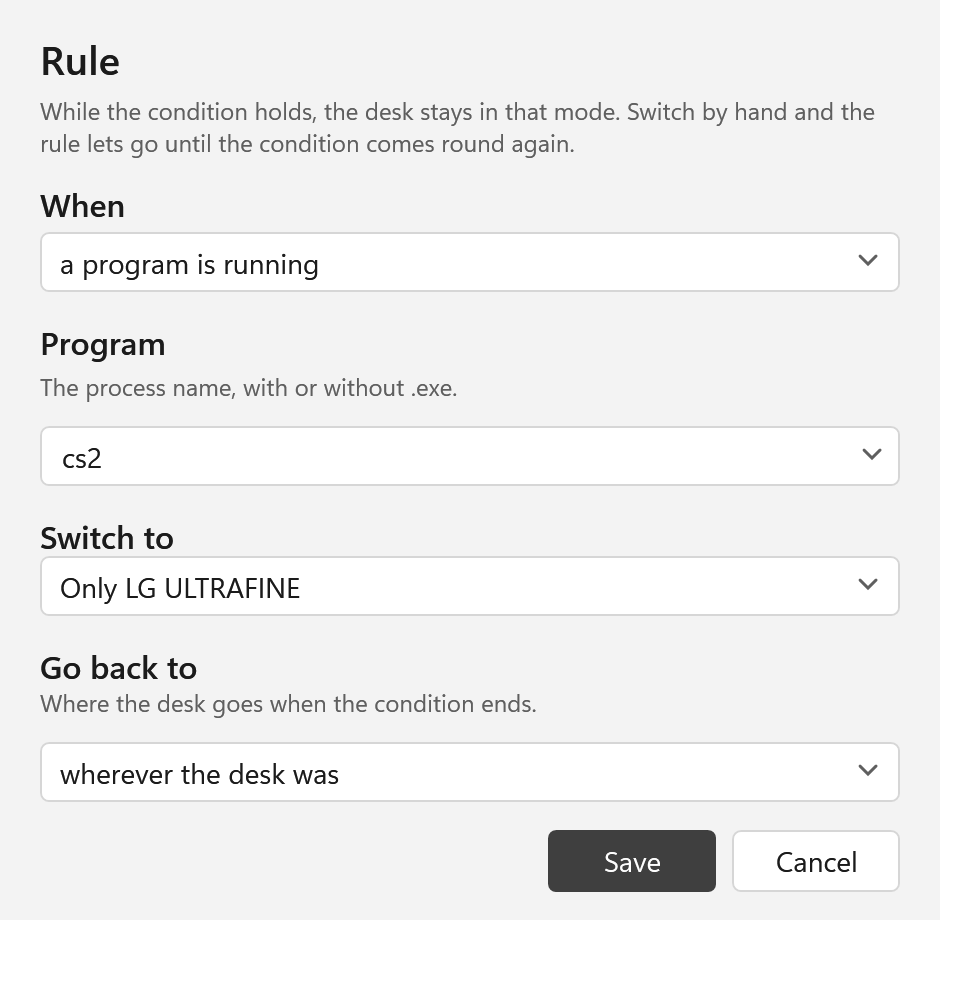
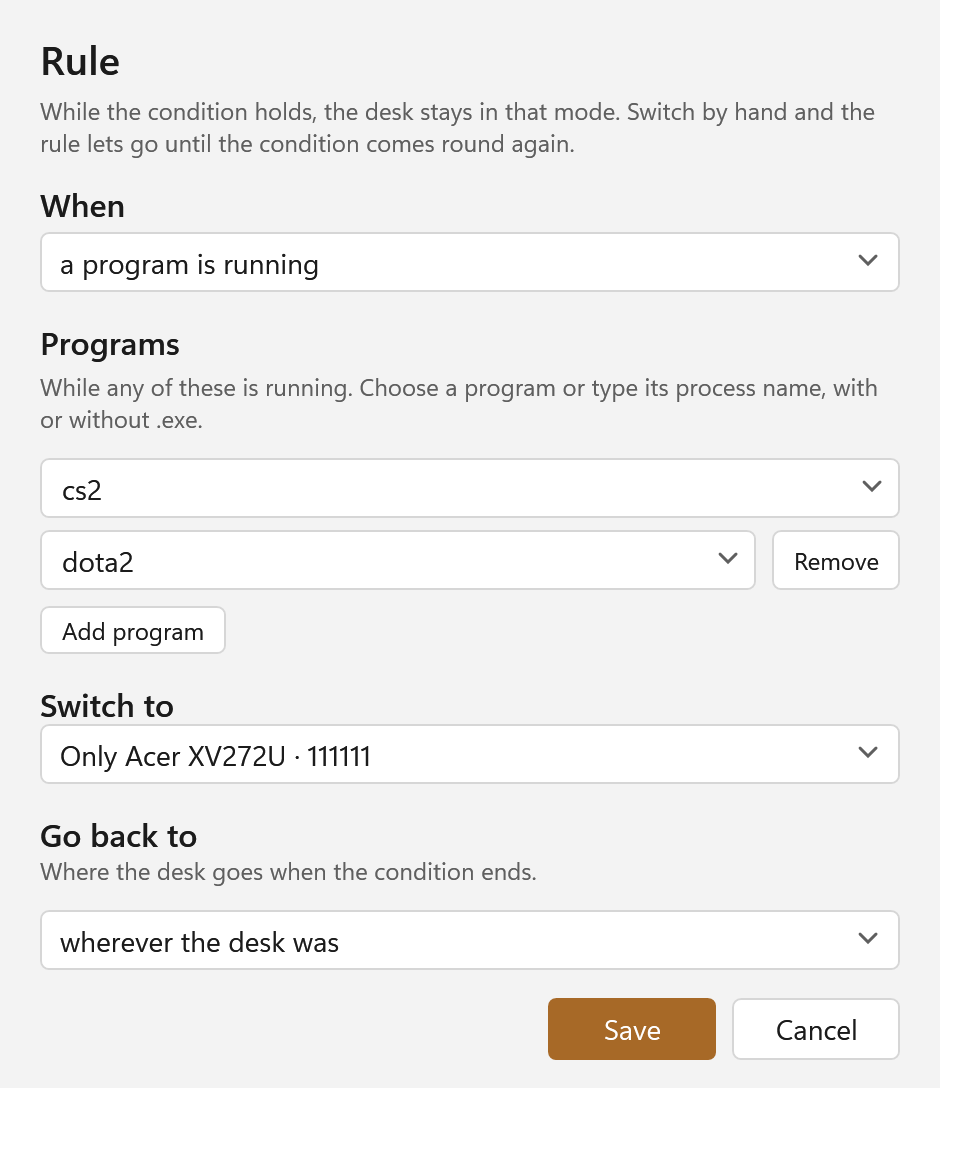
Keep one display rule active across a group of games

diff --git a/docs/reference.md b/docs/reference.md
@@ -375,7 +375,7 @@ list by hand:
 
 ```json
 "rules": [
-    { "when": "process", "process": "cs2", "mode": "solo:LG ULTRAGEAR" },
+    { "when": "process", "processes": ["cs2", "dota2"], "mode": "solo:LG ULTRAGEAR" },
     { "when": "idle", "minutes": 30, "mode": "combo:Movie night", "back": "combo:Work" },
     { "when": "displays", "displays": ["U2720Q", "ULTRAGEAR"], "mode": "combo:Home", "back": "solo:LAPTOP" }
 ]
@@ -383,13 +383,21 @@ list by hand:
 
 | Field | What it is |
 | --- | --- |
-| `when` | `process` — that process is running; `idle` — nobody has touched the computer for `minutes`; `displays` — the connected displays are exactly the ones in `displays` |
-| `process` | process name, with or without `.exe`, as Task Manager shows it |
+| `when` | `process` — any selected process is running; `idle` — nobody has touched the computer for `minutes`; `displays` — the connected displays are exactly the ones in `displays` |
+| `process` | one process name, with or without `.exe`, as Task Manager shows it. Existing single-program rules continue to work |
+| `processes` | a list of process names for a group. A nonempty list takes precedence over `process`; case and `.exe` do not affect matching |
 | `minutes` | for `idle` only. Zero means the rule never fires |
 | `displays` | for `displays` only: names or Monitor IDs, matched the way `layout` matches them. Exactly this set — a rule for the one monitor at the office does not fire at home, where that monitor is there too. Connected is enough; a display that is off at its own button counts |
 | `mode` | mode key to go to |
 | `back` | where to return when the condition ends. Empty — back to wherever the desk was |
 | `enabled` | `false` switches a rule off without deleting it |
+
+For several games that use the same desk, choose the first program and click **Add program**
+for each additional game. Each field offers running programs and names already in the optional
+diary; you can also type a process name. Blank fields and duplicate names are ignored.
+The rule stays active while any selected program is running and returns only after the last
+one closes. Closing one game while another is still running does not switch the screens.
+The rules list shows the return destination, including the default previous mode.
 
 Checked every fifteen seconds. Rules are tried in order and **the first match wins**; while
 a rule holds the desk, the others stay quiet. Three things it will not do:

diff --git a/CHANGELOG.md b/CHANGELOG.md
@@ -5,6 +5,9 @@ A release is dated only when its tag is ready to publish.
 
 ## 1.0.1 — not released yet
 
+- Let one rule watch several games or programs. It keeps the chosen mode while any of them
+  is running and returns after the last one closes. Add programs in the rule editor; existing
+  single-program rules keep working. The rules list now shows the default return mode too.
 - Stop the tray menu drawing a mode's shortcut on top of its name. A mode whose display is
   unplugged is disabled on purpose and still bound to a key, and both halves of its row were
   being painted into the same place.
